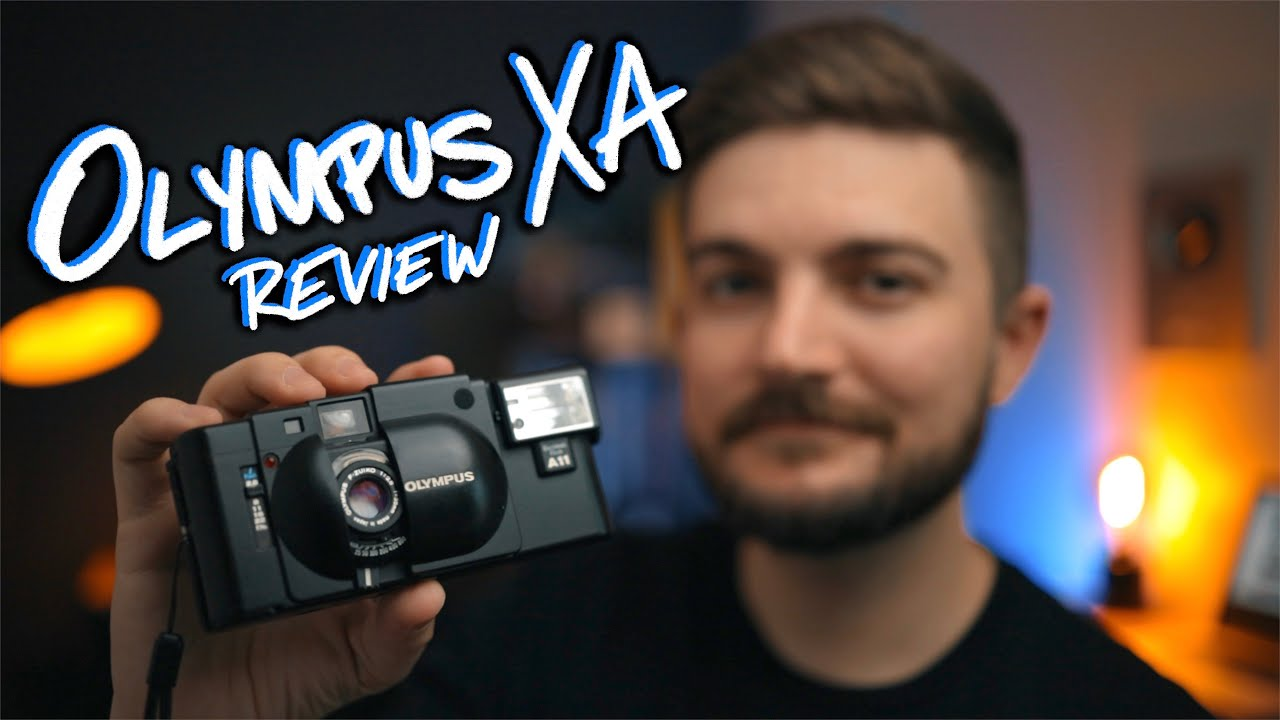
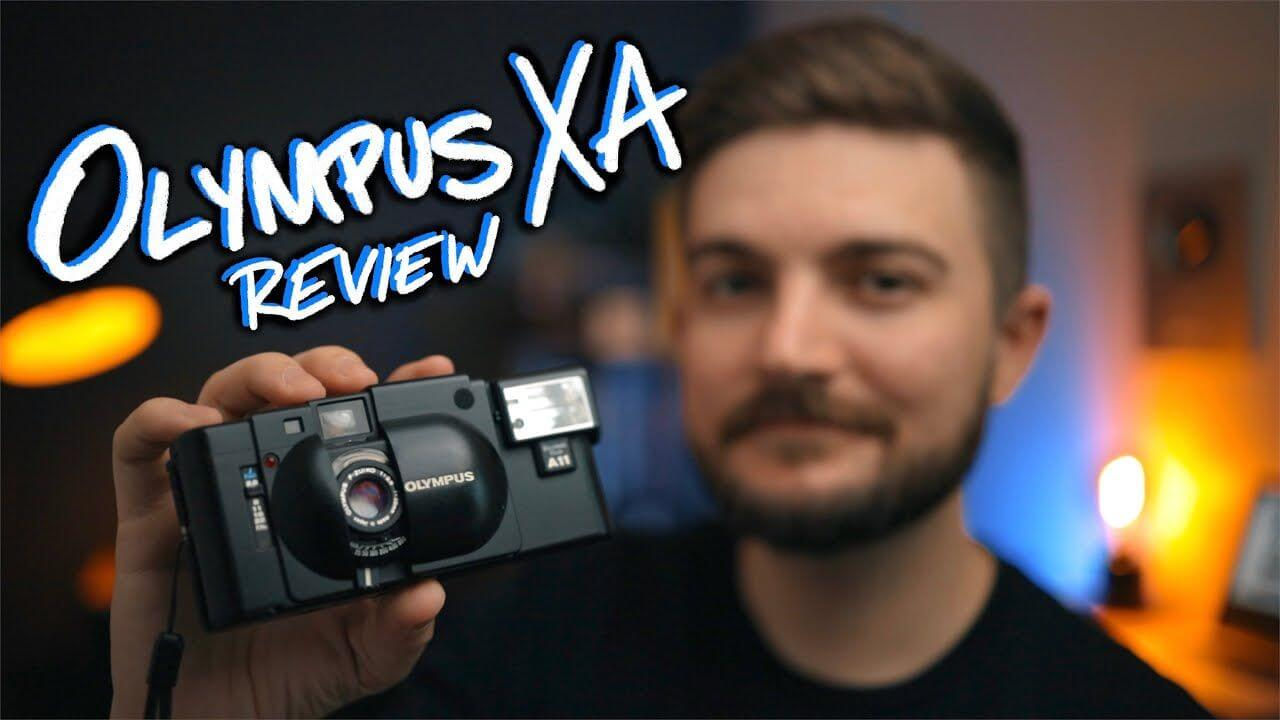
0.80.0 (#215)
* 0.80.0

* Optimised images with calibre/image-actions

* they exist

* Compress image

* [content/posts/olympus-xa/mattday.jpg] -14.63KB (-17%)

diff --git a/themes/simple/postcss.config.js b/themes/simple/postcss.config.js
@@ -9,11 +9,6 @@ if (process.env.HUGO_ENVIRONMENT === 'production') {
       ],
       options: {
         safelist: [
-          /content-/,
-          /post/,
-          /photoset/,
-          /always/,
-          /max/
         ]
       }
     })]
